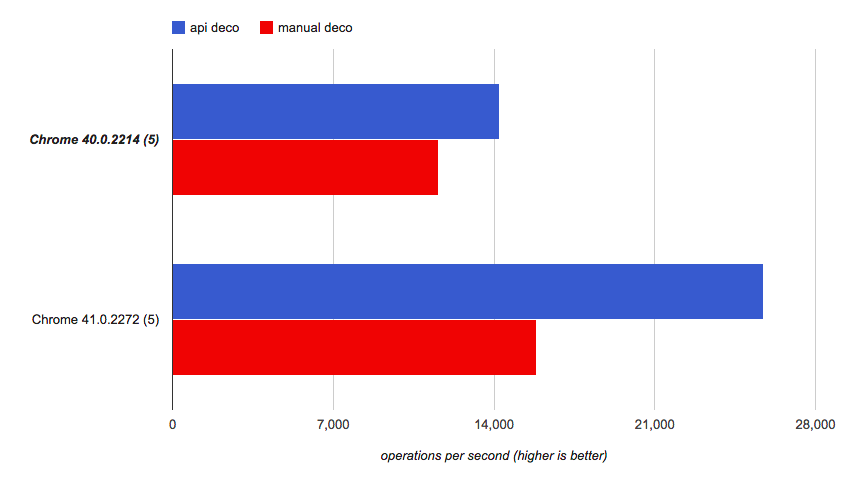
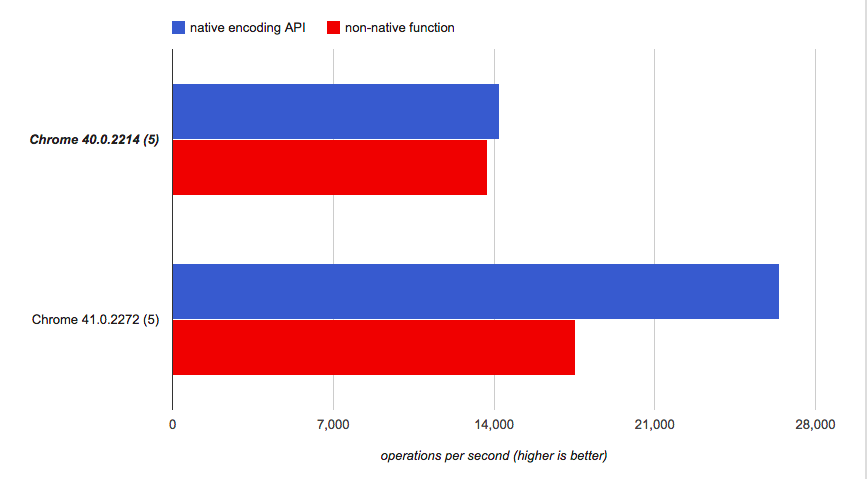
[2.2.1] updates test case names.

diff --git a/spikes/2.2.1/test-syncEncodingAPI/encodingAPI.js b/spikes/2.2.1/test-syncEncodingAPI/encodingAPI.js
@@ -21,7 +21,7 @@ var fStringified = (function () {
   return sum;
 }).toString();
 
-var manualEncode = function (str) {
+var nonNativeEncode = function (str) {
   var strLength = str.length;
   var buf = new ArrayBuffer(strLength * 2);
   var bufView = new Uint16Array(buf);
@@ -30,17 +30,17 @@ var manualEncode = function (str) {
   }
   return bufView;
 };
-var manualDecode = function (ab) {
+var nonNativeDecode = function (ab) {
   return String.fromCharCode.apply(null, ab);
 };
 
 var encoder = new TextEncoder();
 var decoder = new TextDecoder();
 
-// ---
-var withManual = function () {
-  var encodedF = manualEncode(fStringified);
-  var decodedF = manualDecode(encodedF);
+//
+var withNonNativeFunction = function () {
+  var encodedF = nonNativeEncode(fStringified);
+  var decodedF = nonNativeDecode(encodedF);
   if (decodedF === fStringified) {
     console.log(decodedF);
   } else {
@@ -48,7 +48,7 @@ var withManual = function () {
   }
 }
 
-var withEncodeAPI = function () {
+var withEncodingAPI = function () {
   var encodedF = encoder.encode(fStringified);
   var decodedF = decoder.decode(encodedF);
   if (decodedF === fStringified) {
@@ -58,8 +58,8 @@ var withEncodeAPI = function () {
   }
 };
 
-// Test case 1 - Manual deco
-withManual();
+// Test case 1 - Non-native function
+withNonNativeFunction();
 
-// Test case 2 - API deco
-withEncodeAPI();
+// Test case 2 - Native encoding API
+withEncodingAPI();
